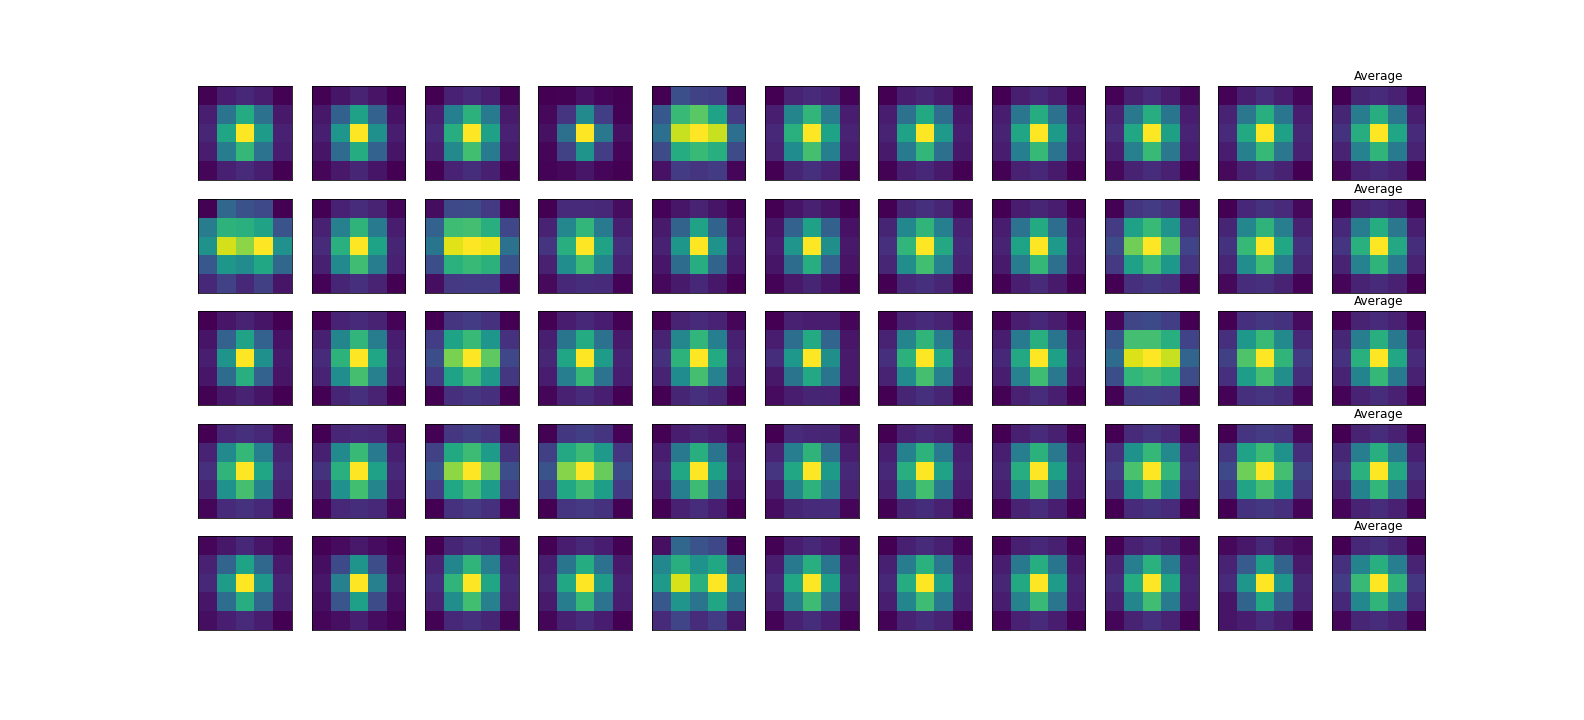
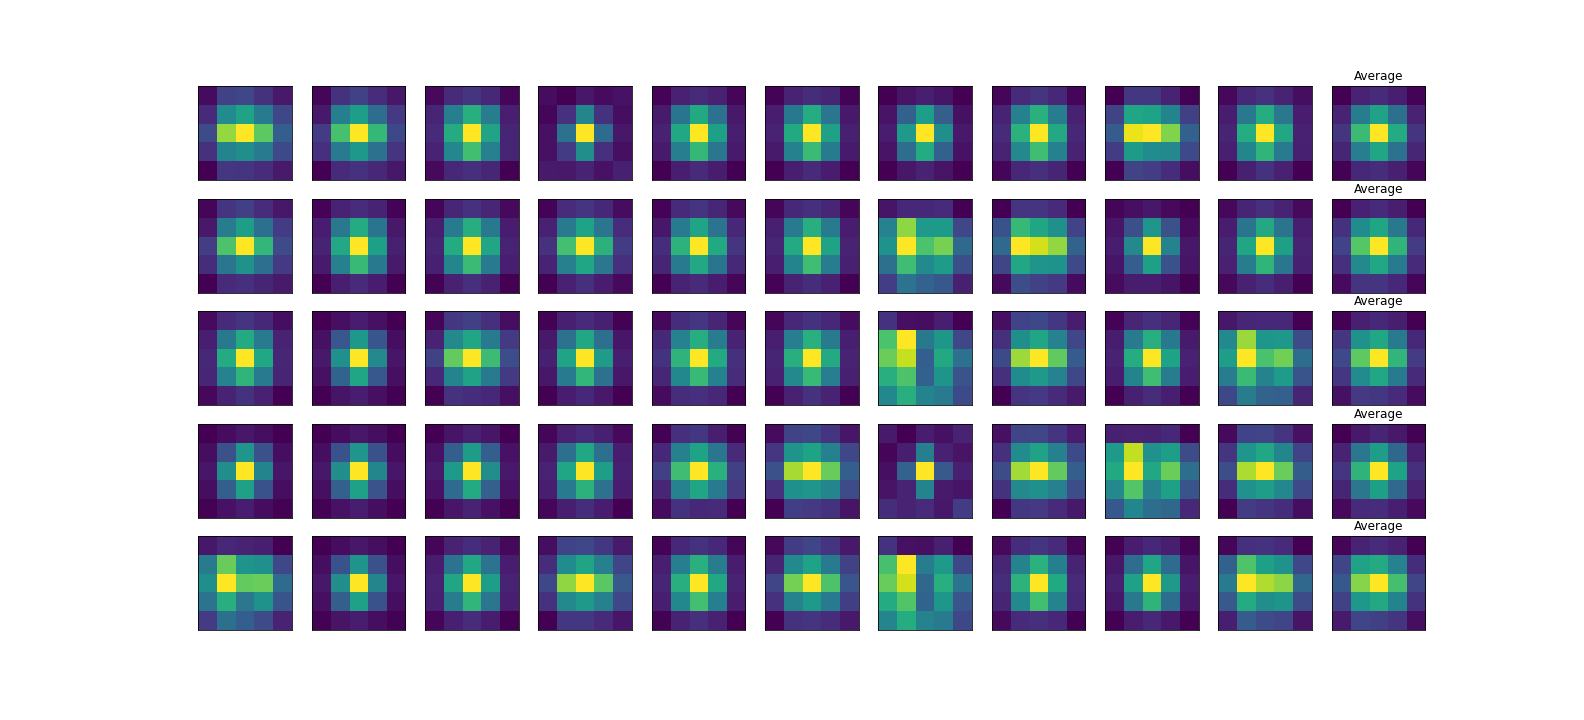
eliminated unneeded loading of stamps

diff --git a/case_studies/sdss_psf/sdss_psf.py b/case_studies/sdss_psf/sdss_psf.py
@@ -113,9 +113,10 @@ pl.savefig("clustered_locs.png")
 # %%
 ## Estimate this image
 class SDSS_HNP(LightningModule):
-    def __init__(self, stampsize=5, dz=4, sdss_dataset=None):
+    def __init__(self, stampsize=5, dz=4, sdss_dataset=None, max_cond_inputs=1000):
         self.sdss_dataset = sdss_dataset
         self.stamper = sdss.StarStamper(stampsize)
+        self.max_cond_inputs = max_cond_inputs
         dy = stampsize ** 2
         dh = 2 * dz
         super().__init__()
@@ -141,11 +142,11 @@ class SDSS_HNP(LightningModule):
         self.valid_losses = []
 
     def training_step(self, batch, batch_idx):
-        X, G, S, Y, img, locs, km, c = batch
+        X, G, _, _, img, locs, km, c = batch
         YY = self.stamper(img, locs[:, 1], locs[:, 0])[0]
         YY = YY.reshape(-1, 25)
         YY = (YY - YY.mean(1, keepdim=True)) / YY.std(1, keepdim=True)
-        S = YY[: S.size(0)]
+        S = YY[: min(YY.size(0), self.max_cond_inputs)]
         loss = self.hnp(X, G, S, YY) / X.size(0)
         return loss
 
